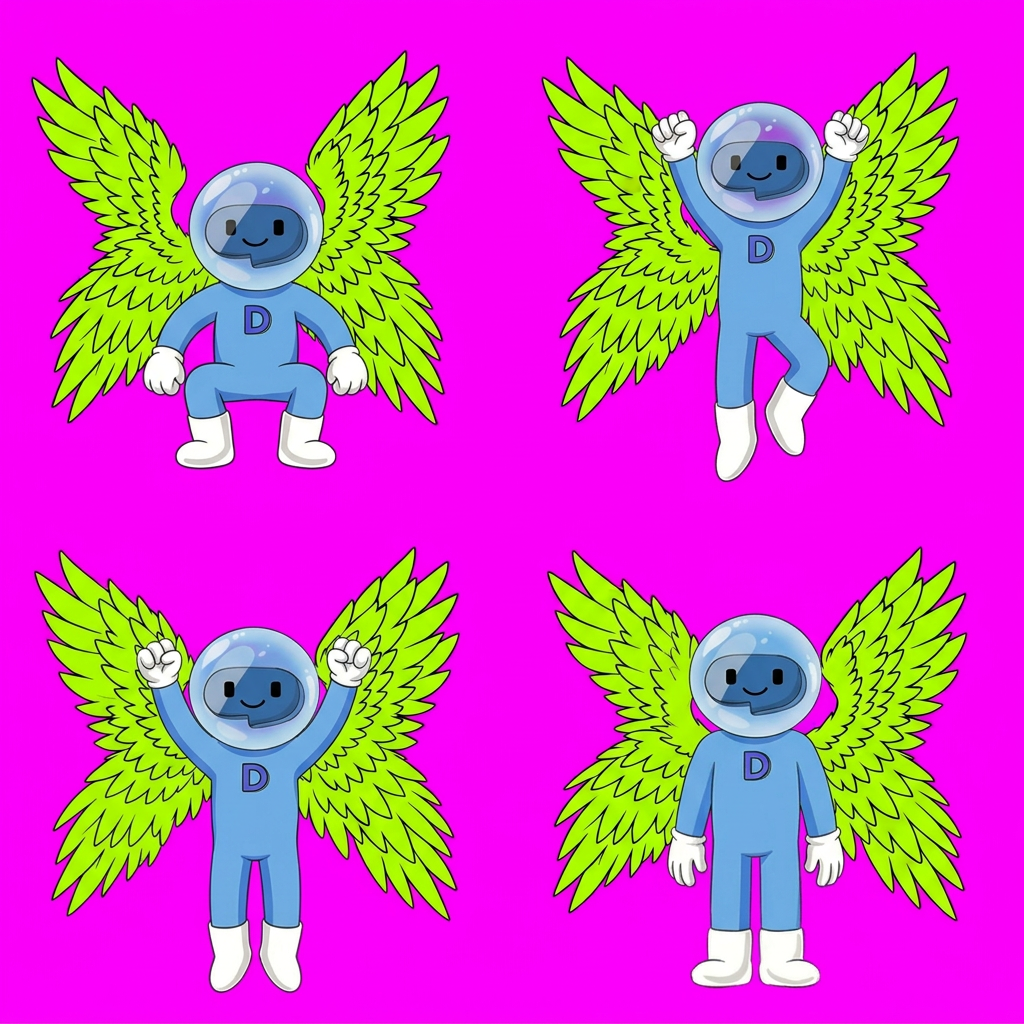
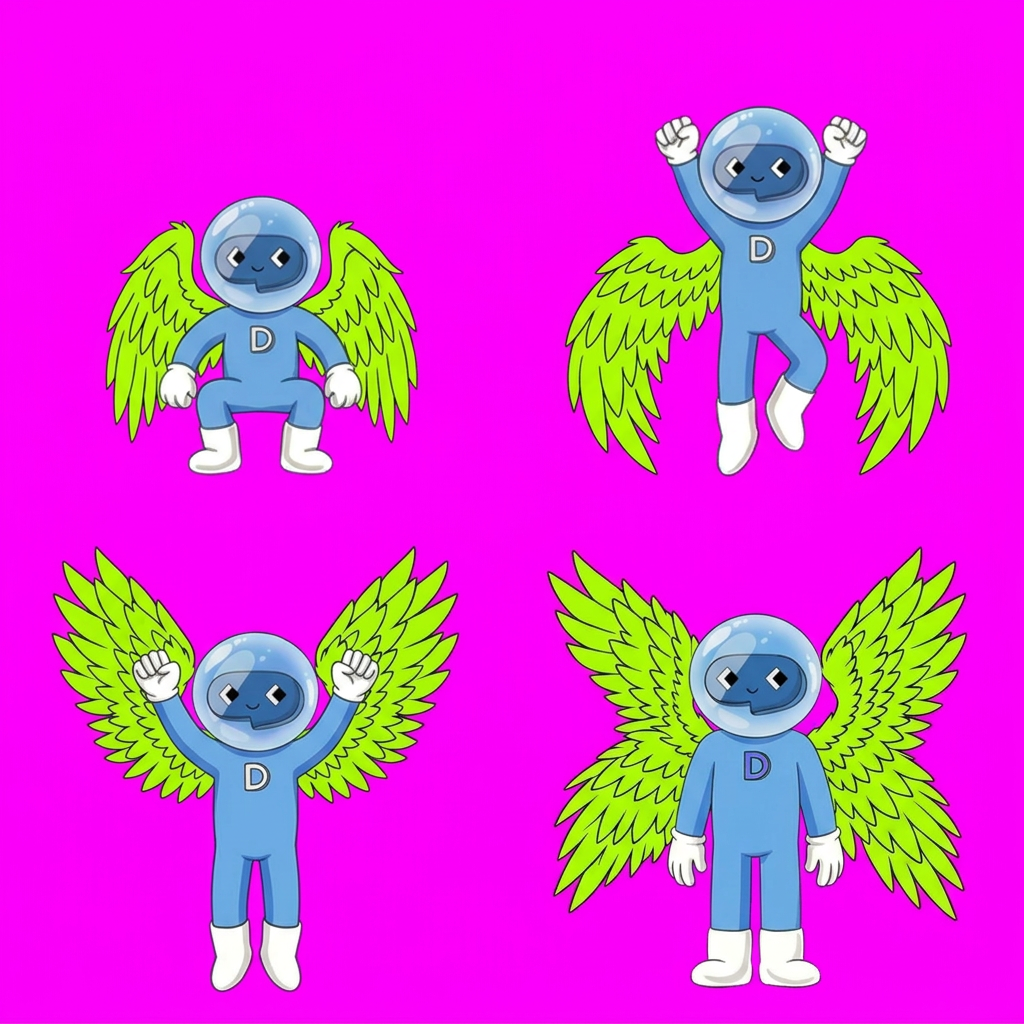
art: re-picked Neon Wings and Golden Seraph jump/spring sheets
Replaces the sheets from 6d62785 with redraws that follow the classic
frames more closely (upright fall with raised arms, deep crouch,
small somersault balls, faces on every visor). process_skins.py maps
the frames that strayed onto the matching classic pose.

diff --git a/tools/process_skins.py b/tools/process_skins.py
@@ -75,10 +75,17 @@ _SKIP = {("poses", 2), ("jump", 2), ("spring-b", 1), ("spring-b", 2)}
 _TUCK = {("spring-b", 1): 0.8, ("spring-b", 2): 0.8}
 
 SKINS = {
-    "wings": {"visor": "sky", "sources": _GRID, "poses": _POSES, "sheets": _SHEETS,
-              "visor_skip": _SKIP},
-    "golden": {"visor": "grey", "sources": _GRID, "poses": _POSES, "sheets": _SHEETS,
-               "visor_skip": _SKIP},
+    "wings": {"visor": "sky", "sources": _GRID, "poses": _POSES,
+              # the spring-a flight frames strayed; spring-b frame 0 is the same
+              # classic flight pose, so it stands in for them
+              "sheets": {**_SHEETS, "spring": [("spring-a", 0), ("spring-a", 1), ("spring-b", 0),
+                                              ("spring-b", 0)] + _SHEETS["spring"][4:]},
+              "visor_skip": _SKIP, "scale_mul": _TUCK},
+    "golden": {"visor": "grey", "sources": _GRID, "poses": _POSES,
+               # spring-a frame 2 strayed from the flight pose: frame 3 is used twice
+               "sheets": {**_SHEETS, "spring": [("spring-a", 0), ("spring-a", 1), ("spring-a", 3)]
+                          + _SHEETS["spring"][3:]},
+               "visor_skip": _SKIP, "scale_mul": _TUCK},
     "sunfire": {"visor": "navy", "sources": _GRID, "poses": _POSES, "sheets": _SHEETS,
                 "visor_skip": _SKIP, "scale_mul": _TUCK},
     "galaxy": {"visor": "sky", "sources": _GRID, "poses": _POSES,
